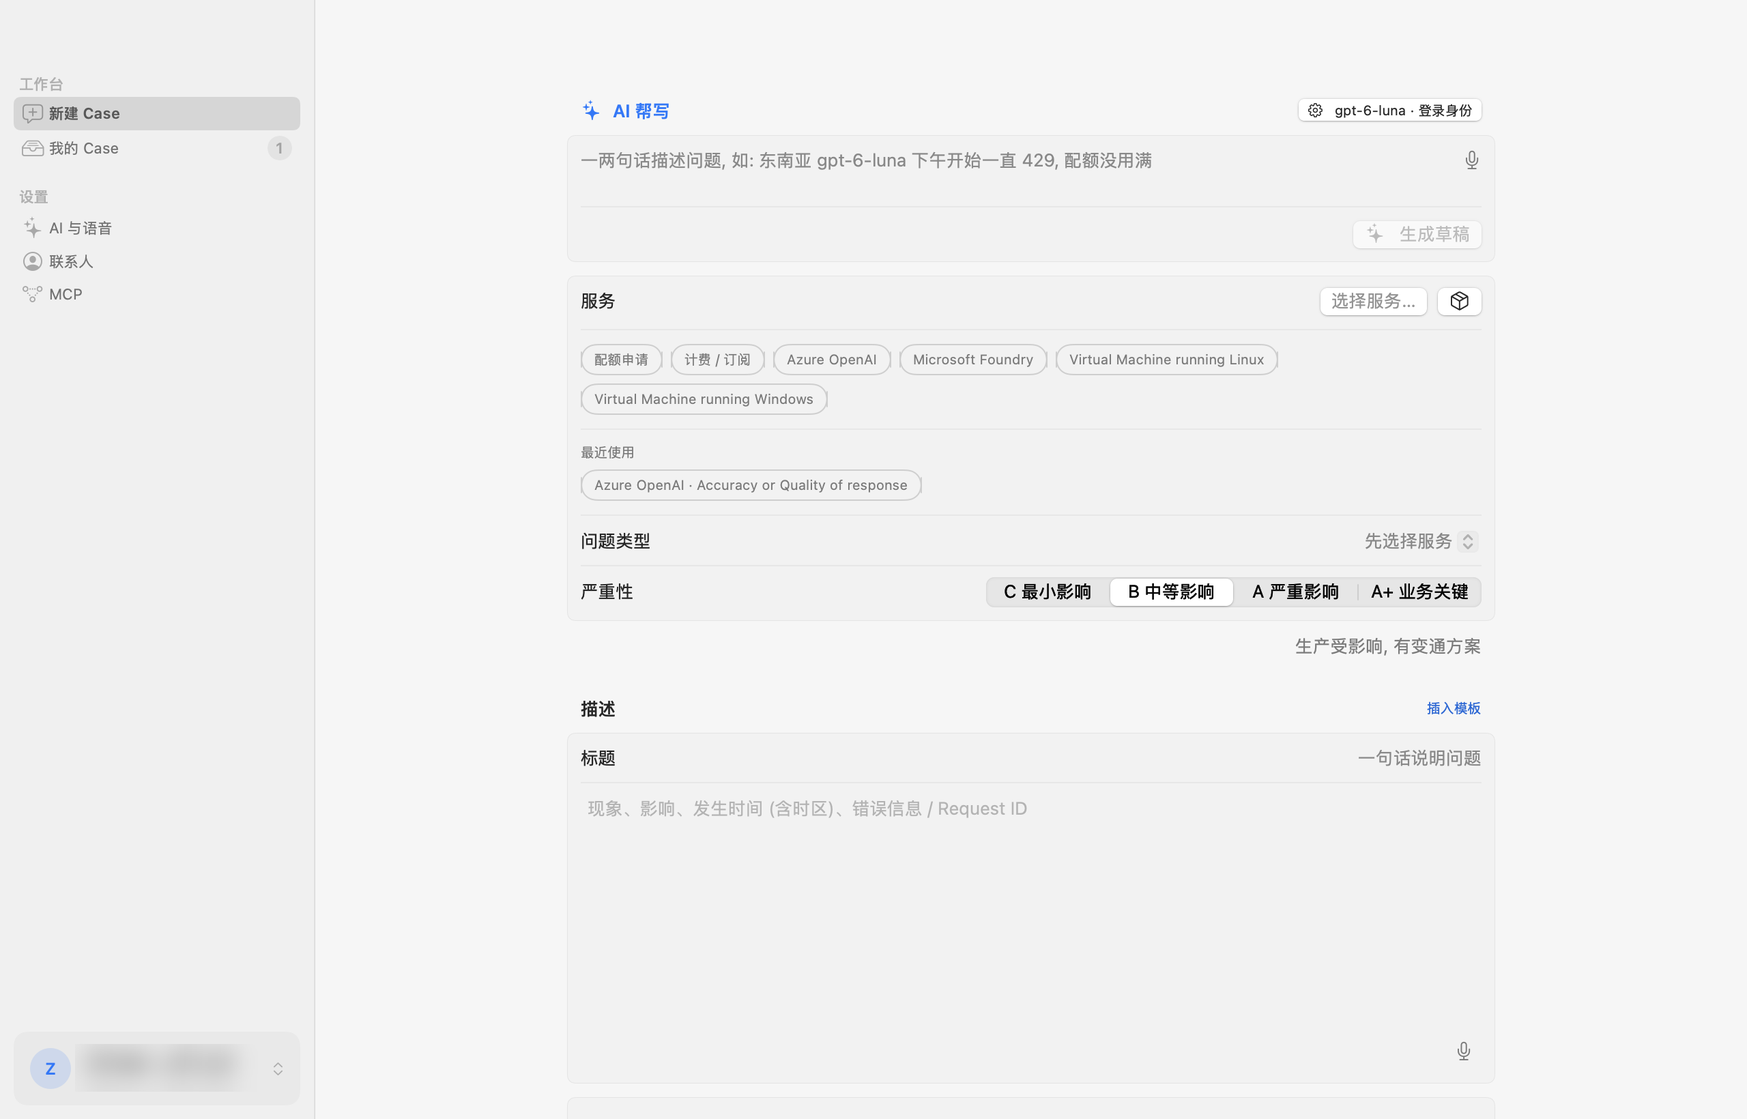
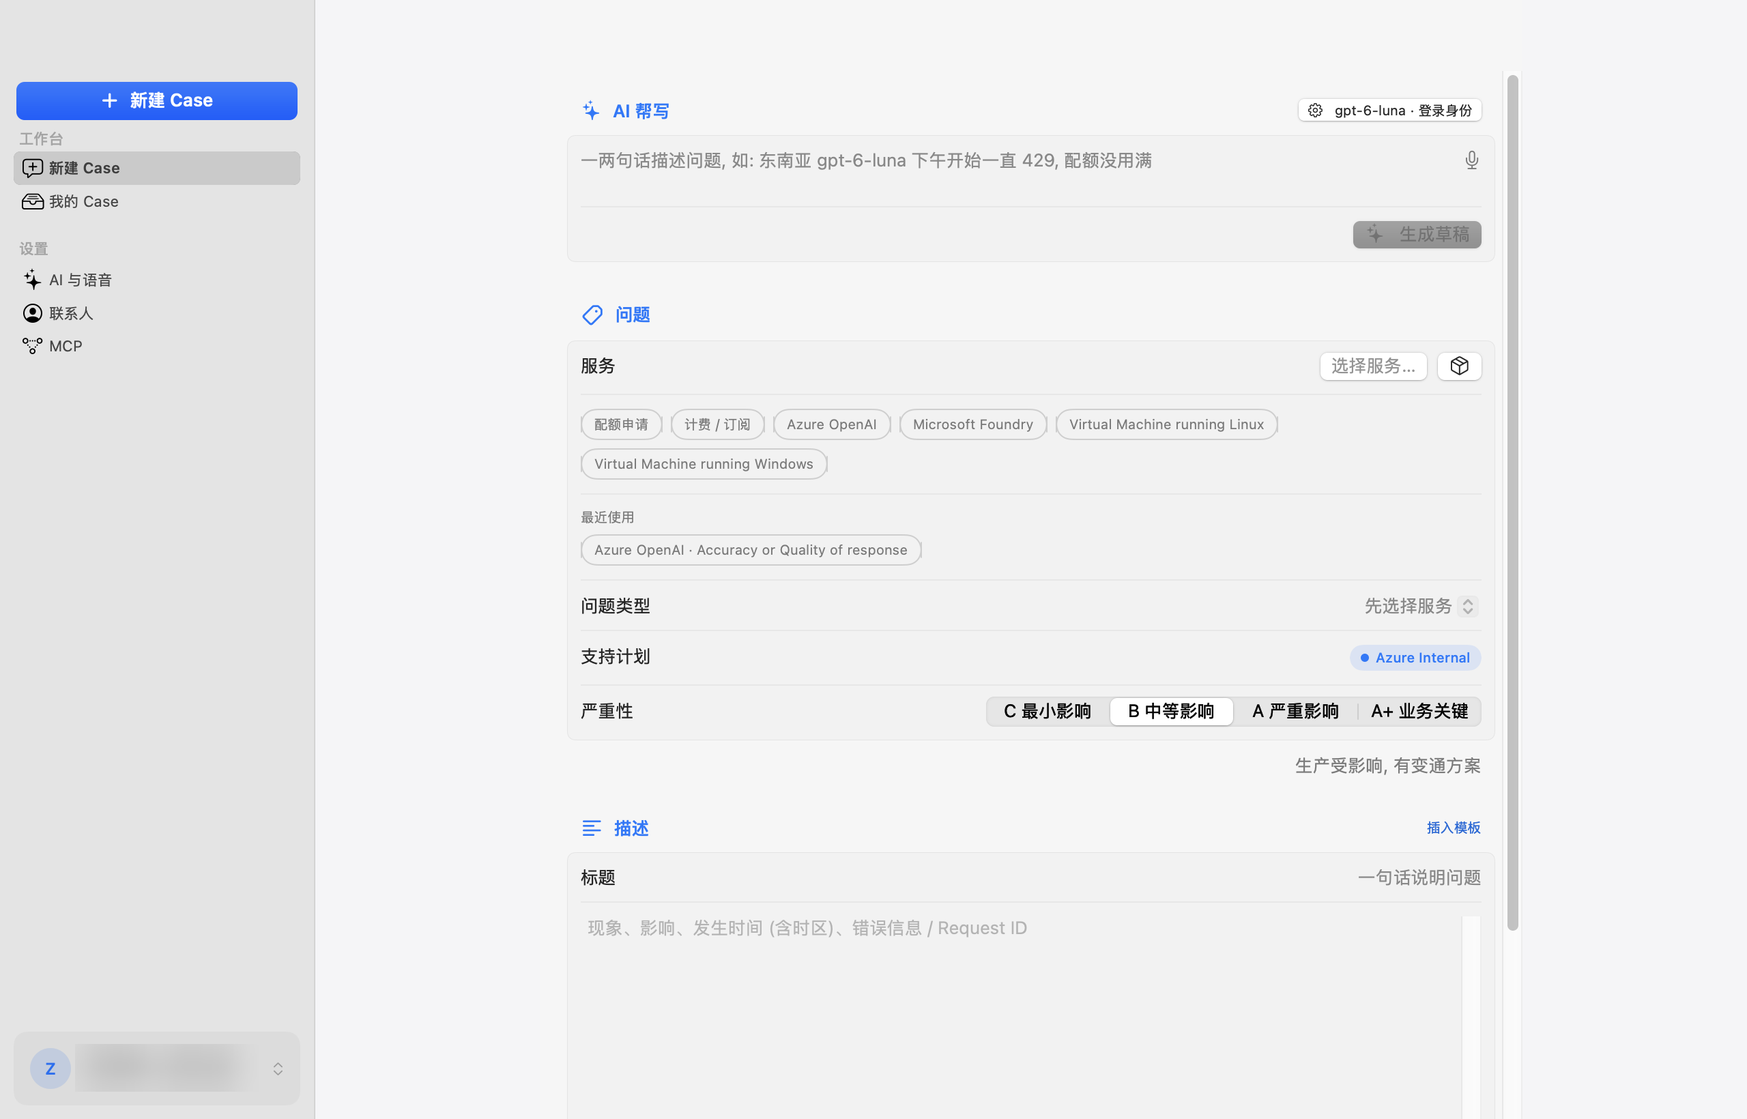
feat: v2.6.0 Web 测试连接与认证说明; 一句话 AI 部署指引; README 重写

diff --git a/static/js/ai.js b/static/js/ai.js
@@ -29,9 +29,17 @@ $("ai-model").onclick = async () => {
   };
   root.append(h("div", { class: "modal-wrap", onclick: (e) => { if (e.target.classList.contains("modal-wrap")) close(); } },
     h("div", { class: "card modal wide" }, h("h3", { class: "t-title-3" }, "AI 设置"),
-      h("div", { class: "body" }, "使用当前登录身份 (Entra ID) 调用, 需要 Cognitive Services OpenAI User 角色。仅保存在本机。"),
+      h("div", { class: "body" }, "认证方式: 登录身份 (Entra ID), 无需 Key。需要 Cognitive Services OpenAI User 角色 (Speech 为 Cognitive Services User)。服务器部署时 Key 只能由管理员通过 K8s Secret 配置。设置仅保存在本机。"),
       h("div", { class: "mt" }, form),
-      h("div", { class: "actions" }, h("button", { class: "btn", onclick: () => { localStorage.removeItem("cp.ai"); close(); showAiModel(); } }, "恢复默认"),
+      h("div", { class: "actions" }, h("span", { id: "ai-test-msg", class: "t-caption secondary", style: "margin-right:auto" }),
+        ...["chat", "stt"].map((k) => h("button", { class: "btn", onclick: async (ev) => {
+          const v = {}; form.querySelectorAll("[data-k]").forEach((i) => { if (i.value.trim()) v[i.dataset.k] = i.value.trim(); });
+          await busy(ev.currentTarget, async () => {
+            try { await api("ai/test", { kind: k, ai: v }); $("ai-test-msg").textContent = (k === "chat" ? "AI 帮写" : "语音") + ": 连接成功 ✓"; }
+            catch (e) { $("ai-test-msg").textContent = (k === "chat" ? "AI 帮写" : "语音") + ": " + errText(e); }
+          });
+        } }, k === "chat" ? "测试 AI" : "测试语音")),
+        h("button", { class: "btn", onclick: () => { localStorage.removeItem("cp.ai"); close(); showAiModel(); } }, "恢复默认"),
         h("button", { class: "btn primary", onclick: save }, "保存")))));
 };
 

diff --git a/casepilot/service.py b/casepilot/service.py
@@ -127,6 +127,18 @@ def stream_stop(r):
         raise core.ApiError(502, str(e).strip("'"))
 
 
+def ai_test(r):
+    """设置页「测试连接」: kind=chat 发极小对话请求; kind=stt 建立流式会话后立即关闭。"""
+    cfg = ai_config(r)
+    if r.get("kind") == "stt":
+        sid = stream_start(r)["id"]
+        realtime.SESSIONS.close(sid)
+        return {"ok": True}
+    body = {"model": cfg.chat_deployment, "messages": [{"role": "user", "content": "ping"}], "max_completion_tokens": 16}
+    _post(cfg, f"{cfg.chat_endpoint}/openai/v1/chat/completions", json.dumps(body).encode(), "application/json")
+    return {"ok": True}
+
+
 def support_plan(r):
     tenant, sub = r.get("tenantId"), r.get("subscriptionId")
     if not sub:

diff --git a/server.py b/server.py
@@ -165,6 +165,7 @@ ROUTES = {
     "ai/stream/start": service.stream_start,
     "ai/stream/push": service.stream_push,
     "ai/stream/stop": service.stream_stop,
+    "ai/test": service.ai_test,
     "ai/config": lambda r: service.ai_config(r).public(),
     "plan": service.support_plan,
     "reply": lambda r: add_communication(r["tenantId"], r.get("subscriptionId"), r.get("name"),

diff --git a/casepilot/realtime.py b/casepilot/realtime.py
@@ -300,6 +300,9 @@ class Sessions:
             raise RuntimeError(s.st.error)
         return s.push(base64.b64decode(b64) if b64 else b"")
 
+    def close(self, sid):
+        self._get(sid, pop=True).ws.close()
+
     def finish(self, sid):
         s = self._get(sid, pop=True)
         text = s.finish()

diff --git a/README.md b/README.md
@@ -2,103 +2,117 @@
 
 <img src="static/logo.png" width="96" alt="CasePilot logo">
 
-快速创建和管理 Azure Support Case: 原生 Mac App、服务器 / AKS 部署与 MCP。
+一句话描述问题, 快速创建和管理 Azure Support Case。提供 macOS / Windows 原生 App、跨平台 Web 版、MCP 与 AKS 部署。
 
 <p>
   <img src="docs/screenshots/new-case.png" width="49%" alt="新建 Case (AI 帮写)">
   <img src="docs/screenshots/my-cases.png" width="49%" alt="我的 Case 与详情">
 </p>
 
-## 项目结构
-| 路径 | 说明 |
-|---|---|
-| `macos/` | 原生 SwiftUI App (主产品) |
-| `windows/` | 原生 WPF App (.NET 9), 见 [docs/WINDOWS_APP.md](docs/WINDOWS_APP.md) |
-| `casepilot/` | Python 核心: 认证、Support API、AI、支持计划、MCP |
-| `server.py` + `static/` | Web 版 / 服务器模式 (本地或容器) |
-| `deploy/` | Dockerfile 配套的 Helm Chart 与 AKS 一键脚本 |
-| `tests/` | 服务端单元测试 |
-| `docs/` | UI 审计、设计规范、改动记录与截图 |
+## 快速开始
 
-## 下载安装 (推荐)
-1. 到 [最新 Release](https://github.com/ZenoRewn/Azure_CasePilot/releases/latest) 下载 `CasePilot-*-macOS-universal.zip` 并解压 (Windows: `win-x64` / `win-arm64`, 见下方 Windows 一节; Linux: `linux.tar.gz`, 解压后 `./start.sh`, 需 Python 3.9+, 浏览器打开 http://127.0.0.1:8765)
-2. **首次打开前必须执行一次** (App 未经 Apple 公证, 否则会提示"已损坏"或"无法验证开发者"):
-   ```bash
-   xattr -dr com.apple.quarantine ~/Downloads/CasePilot.app   # 按实际路径修改
-   ```
-3. 双击 `CasePilot.app`
-
-要求 macOS 14+, Universal (Apple Silicon + Intel), 约 1.2MB。关闭窗口或 ⌘Q 即完全退出, 无后台服务。
-
-## 登录
-| 方式 | 前提 | 说明 |
+| 平台 | 下载 ([最新 Release](https://github.com/ZenoRewn/Azure_CasePilot/releases/latest)) | 首次运行 |
 |---|---|---|
-| Azure CLI (默认, 自动尝试) | 已 `az login` | 复用本机 CLI 会话 |
-| 浏览器登录 (设备码) | 无 | 在浏览器输入验证码, 支持 MFA |
-| App Registration | Client ID + Secret | 需在订阅上授予 **Support Request Contributor** 与 **Reader**; Tenant/Client ID 存本机, Secret 存钥匙串, 下次自动填充 |
+| macOS 14+ (Universal) | `CasePilot-*-macOS-universal.zip` | 未经公证, 先执行 `xattr -dr com.apple.quarantine CasePilot.app`, 再双击 |
+| Windows x64 / ARM64 | `CasePilot-*-win-x64.zip` / `win-arm64.zip` | 解压双击 `CasePilot.exe` (自包含); SmartScreen 点「更多信息 → 仍要运行」 |
+| Linux / 其他 (Web 版) | `CasePilot-*-linux.tar.gz` | 解压后 `./start.sh` (Python 3.9+), 浏览器打开 http://127.0.0.1:8765 |
+| 团队共享 (AKS) | 见下方 [一句话部署](#一句话部署到-aks) | — |
 
-点击左下角**身份卡**可随时切换 租户 / 订阅 (含租户级) / 认证方式。
+关闭窗口即完全退出, 无后台服务。
+
+## 登录与权限
+
+| 方式 | 前提 |
+|---|---|
+| Azure CLI (默认, 自动尝试) | 本机已 `az login` |
+| 浏览器登录 (设备码) | 无, 支持 MFA |
+| App Registration | Client ID + Secret (Secret 存钥匙串 / 凭据管理器) |
+
+所需角色: 订阅上 **Support Request Contributor** + **Reader**; 使用 AI 时, AI 资源上 **Cognitive Services OpenAI User** (Speech 为 **Cognitive Services User**)。
+点击左下角**身份卡**随时切换 租户 / 订阅 (含租户级) / 认证方式。
 
 ## 功能
-- **AI 帮写** (v2.0): 一句话描述 (可语音) → AI 选择服务 / 问题类型 / 严重性并写好结构化描述; 信息不足时追问一轮。只从 Azure 真实目录中选择, 不编造。默认 westus3 `gpt-6-luna`, 可在侧边栏「设置 → AI 与语音」或 AI 帮写旁的模型按钮修改 Endpoint / 部署 / **API Key** (Key 存钥匙串; 留空则用登录身份, 需 Cognitive Services OpenAI User 角色)
-- **流式语音输入** (v2.5): 边说边出字, 新建描述 / 补充信息 / 回复均可用。三端 (Mac / Windows / Web·Linux) 一致:
-  - Azure OpenAI Realtime `gpt-live-transcribe` (默认, 需在资源上部署)
-  - Azure Speech 实时识别 + **Post-Stream Refinement (PSR)**: 说话时快速出中间结果, 每句结束替换为二次识别的更准确文本 (可填 **区域 + Speech Key**)
-  - 直接走 WebSocket 协议, 未引入 Speech SDK, 安装包不变大; 流式失败时自动退回整段转写 (`gpt-4o-mini-transcribe` / Speech 快速转写)
-- **支持计划**: 侧边栏显示 (如 Unified / ProDirect / Standard), 来源标注 (最近 Case 或订阅类型推断; Azure 无公开查询 API); 不支持 A/A+ 时提示
-- **新建 Case**: 选服务 → 问题类型 → 严重性 (C/B/A/A+) → 标题与描述 → 提交 (⌘↩)
-  - 快捷入口: 配额申请、计费/订阅、Azure OpenAI、Microsoft Foundry 及最近使用的服务
-  - 「最近使用」: 提交过的 服务 + 问题类型 一键复用
-  - 从订阅资源反查服务; 结构化描述模板; 请求体预览
-  - 「更多选项」: 关联资源、开始时间、24×7、诊断授权
-  - Compute vCPU 配额结构化表单
-- **联系人**: 在 设置 (⌘,) 中维护, 默认 简体中文 / 中国 / China Standard Time
-- **我的 Case**: 统计、搜索、状态与时间筛选; 详情 (属性、SLA、描述、沟通记录); 补充信息; 关闭 Case (回读确认)
-- **支持计划提示**: 根据该订阅最近 Case 推断
 
-## 从源码构建
-```bash
-cd macos
-swift test                    # 单元测试
-./build_app.sh v2.5.0         # 产物: dist/CasePilot-v2.5.0-macOS-universal.zip
-```
+### 新建 Case
+- 侧边栏顶部 **「新建 Case」** 主按钮 (⌘N / Ctrl+N); 提交 ⌘↩ / Ctrl+Enter, 提交前确认
+- **AI 帮写**: 一句话 (可语音) → 自动选服务、问题类型、严重性, 并写好结构化描述 (现象 / 影响 / 时间 / 错误 / 已尝试); 信息不足时追问一轮。只从 Azure 真实目录中选择, 不编造
+- 快捷入口: 配额申请、计费 / 订阅、Azure OpenAI、Microsoft Foundry; 「最近使用」一键复用服务 + 问题类型; 从订阅资源反查服务
+- **支持计划徽章**: 显示当前订阅的支持计划 (如 Unified / ProDirect / Standard); 所选 A / A+ 可能不被支持时变橙色提醒
+  > Azure 没有公开 API 查询支持计划, 按该订阅最近一年的 Case 或订阅类型推断; 租户级或无历史 Case 时显示「未知」
+- 更多选项: 关联资源、开始时间、24×7、诊断授权; Compute vCPU 配额结构化表单; 请求体预览
+
+### 流式语音输入
+边说边出字, 用于新建描述、AI 追问与 Case 回复, 三端一致:
+- **Azure OpenAI Realtime `gpt-live-transcribe`** (默认)
+- **Azure Speech 实时识别 + Post-Stream Refinement (PSR)**: 说话时快速出中间结果, 每句结束替换为二次识别的更准确文本
+- 直接走 WebSocket 协议, 不引入 Speech SDK; 流式失败时自动退回整段转写 (`gpt-4o-mini-transcribe` / Speech 快速转写)
+
+### 我的 Case
+统计、搜索、状态与时间筛选; 详情 (属性、SLA、描述、沟通记录); 补充信息 (可语音); 关闭 Case (回读确认)。
+
+### AI 与语音设置
+侧边栏「设置 → AI 与语音」, 或 AI 帮写旁的模型按钮:
+
+| 项 | 默认 |
+|---|---|
+| 对话 Endpoint / 部署 | westus3 · `gpt-6-luna` |
+| 转写服务 | Azure OpenAI (`gpt-live-transcribe` 流式, `gpt-4o-mini-transcribe` 兜底) 或 Azure Speech |
+| **认证方式** | **登录身份 (Entra ID)** 或 **API Key**, AI 帮写与语音分别选择 |
+
+- 登录身份: 用当前账号调用, 无需 Key, 界面显示所需角色
+- API Key: 存本机钥匙串 / 凭据管理器; 切回登录身份不删除已存 Key。Speech Key 需同时填写区域
+- 每组都有 **「测试连接」**, 失败时提示缺少的角色或检查 Key
+- 原生 App 中旧版本已存 Key 的用户, 升级后自动保持 API Key 方式
+
+### 联系人
+设置 (⌘,) 中维护, 默认 简体中文 / 中国 / China Standard Time。
 
 ## MCP (Claude Desktop / VS Code / Copilot 等)
-工具: `list_services` `list_problem_types` `draft_case` `create_case` `list_cases` `get_case` `add_case_message` `close_case` `get_support_plan`。写操作必须 `confirm=true`。
-- **本机 (stdio, 复用 az login)**:
+工具: `list_services` `list_problem_types` `draft_case` `create_case` `list_cases` `get_case` `add_case_message` `close_case` `get_support_plan`, 写操作需 `confirm=true`。
+- **本机 (stdio, 复用 az login)**, App 内「设置 → MCP」可一键复制:
   ```json
   {"mcpServers": {"casepilot": {"command": "python3", "args": ["-m", "casepilot.mcp"], "cwd": "<仓库路径>",
     "env": {"CASEPILOT_SUBSCRIPTION_ID": "<订阅>"}}}}
   ```
-  App 内 设置 → MCP 可一键复制。
-- **服务器 (HTTP)**: `POST https://<host>/mcp`, `Authorization: Bearer <CASEPILOT_API_KEY>`
+- **服务器 (HTTP)**: `POST https://<host>/mcp`, `Authorization: Bearer <API Key>`
 
-## 服务器 / AKS 部署
-零依赖 Python 容器 (`Dockerfile`) + Helm (`deploy/helm/casepilot`), 使用 **AKS Workload Identity**, 无需任何密钥访问 Azure:
+## 一句话部署到 AKS
+把这句话 (替换尖括号) 发给 Claude Code / Copilot / Codex 等能执行命令的 AI 助手:
+
+> 按 https://github.com/ZenoRewn/Azure_CasePilot/blob/main/docs/AI_DEPLOY.md 的步骤, 把 CasePilot 部署到我的 AKS: 资源组 `<rg>`, 集群 `<aks>`, ACR `<acr>`, 订阅 `<订阅 ID>`, AI 资源 `<AI 资源名>`; 每步执行前先说明, 涉及创建资源或授权时先让我确认。
+
+也可手动执行:
 ```bash
-RG=<rg> AKS=<aks> ACR=<acr> SUB=<订阅> AOAI=<AI 资源名> ./deploy/aks.sh
+RG=<rg> AKS=<aks> ACR=<acr> SUB=<订阅 ID> AOAI=<AI 资源名> AOAI_RG=<ai-rg> ./deploy/aks.sh
 ```
-脚本会: ACR 构建镜像 → 创建托管标识与联邦凭据 → 授予 Support Request Contributor / Reader / Cognitive Services OpenAI User → 生成 API Key → helm 安装。
-服务器模式下 AI/Speech Key 只从环境变量或 K8s Secret 读取 (`CASEPILOT_AOAI_KEY` / `CASEPILOT_STT_KEY` / `CASEPILOT_SPEECH_REGION`, Helm `casepilot.ai.keysSecret`), 不接受浏览器传入; 所有 API 与 /mcp 需 Bearer API Key; 也可置于 Entra 认证网关后 (`trustProxyAuth`)。非 K8s 服务器: `CASEPILOT_MODE=server CASEPILOT_API_KEY=... AZURE_TENANT_ID/CLIENT_ID/CLIENT_SECRET=... python3 server.py`。
+零依赖 Python 容器 + Helm, 使用 **Workload Identity** (集群中不保存 Azure 密钥): ACR 构建 → 托管标识与联邦凭据 → 最小权限角色 → 生成 API Key 存入 Secret → helm 安装。
+- 服务器模式下 AI / Speech Key 只从环境变量或 K8s Secret 读取 (Helm `casepilot.ai.keysSecret`), 不接受浏览器传入
+- 所有 API 与 `/mcp` 需 Bearer API Key; 也可置于 Entra 认证网关后 (`casepilot.trustProxyAuth=true`)
+- 非 K8s 服务器: `CASEPILOT_MODE=server CASEPILOT_API_KEY=... AZURE_TENANT_ID=... AZURE_CLIENT_ID=... AZURE_CLIENT_SECRET=... python3 server.py`
 
-## Web 版 (备选, 跨平台)
-仓库根目录的 `server.py` + `static/` 为早期 Web 版 (仅需 Python 3.9+, 零依赖):
-macOS 双击 `start.command`, Windows 双击 `start.bat`, 浏览器自动打开 http://127.0.0.1:8765 。
-服务端测试: `python3 -m unittest discover -s tests`。
+## 从源码构建与测试
 
-## Windows
-- **原生 App** (`windows/`, WPF .NET 9): 功能对齐 Mac 版。
-  - **下载即用**: 解压 `CasePilot-*-win-x64.zip` (ARM 设备用 `win-arm64`), 双击 `CasePilot.exe`。自包含单文件, 已内置 .NET 运行时, 无需安装任何依赖。未签名, 首次运行若出现 SmartScreen 提示, 点「更多信息 → 仍要运行」。
-  - 构建与发布: `powershell -ExecutionPolicy Bypass -File windows\build.ps1 -Version v1.0.0`, 产物 `windows\dist\CasePilot-v1.0.0-win-{x64,arm64}.zip`。
-  - 详见 [docs/WINDOWS_APP.md](docs/WINDOWS_APP.md)。
-- **Web 版**: 双击 `start.bat`。脚本依次查找 `py` / `python`, 都找不到时使用 Azure CLI 自带的 Python。启动后浏览器打开 http://127.0.0.1:8765 。
+| 组件 | 命令 |
+|---|---|
+| macOS (`macos/`, SwiftUI) | `swift test`; 打包 `./build_app.sh v2.6.0` |
+| Windows (`windows/`, WPF .NET 9) | `windows\build.ps1 -Version v2.6.0` (含测试与 x64/arm64 打包), 详见 [docs/WINDOWS_APP.md](docs/WINDOWS_APP.md) |
+| Python 核心 / Web (`casepilot/`, `server.py`, `static/`) | `python3 -m unittest discover -s tests`; 本地运行 `./start.sh` / `start.command` / `start.bat` |
 
-## 已知限制 / 待办
-- **云环境**: 原生 App 仅支持 Azure Global。
-- **Windows**: 原生 App 未签名 (SmartScreen 首次提示)。
-- **签名公证**: 目前为 ad-hoc 签名, 首次需执行 `xattr`。免除此步需 Apple Developer Program 的 "Developer ID Application" 证书 + `notarytool` 公证。
-- **浏览器登录**: 需人工输入验证码, 尚未完整人工验证。
-- **AI 配额**: 默认部署 TPM 较低 (10K), 并发多时会 429 (已自动退避重试); 生产建议提高配额或换部署。
+| 路径 | 说明 |
+|---|---|
+| `macos/` | 原生 macOS App |
+| `windows/` | 原生 Windows App |
+| `casepilot/` | Python 核心: 认证、Support API、AI、流式语音、支持计划、MCP |
+| `server.py` + `static/` | Web 版 / 服务器模式 |
+| `deploy/` | Helm Chart 与 AKS 一键脚本 (配合根目录 `Dockerfile`) |
+| `docs/` | 部署指引、Windows 说明、UI 规范与截图 |
+
+## 已知限制
+- 仅支持 Azure Global 云
+- 未签名: macOS 首次需 `xattr`; Windows 首次 SmartScreen 提示
+- 浏览器 (设备码) 登录尚未完整人工验证
+- AI / Speech 的 API Key 方式只有单元测试 (测试资源关闭了 Key 认证), 登录身份方式已实测
+- 默认 AI 部署 TPM 较低, 并发多时会 429 (已自动退避重试), 生产建议提高配额
 
 ## 安全
-凭据仅在本机 (内存 / 钥匙串), App 直接调用 Azure ARM `Microsoft.Support` API (2024-04-01), 不经过任何第三方服务。
+凭据只在本机 (内存 / 钥匙串 / Windows 凭据管理器); 直接调用 Azure ARM `Microsoft.Support` API (2024-04-01) 与 Azure AI, 不经过任何第三方服务。

diff --git a/docs/AI_DEPLOY.md b/docs/AI_DEPLOY.md
@@ -1,0 +1,62 @@
+# 一句话交给 AI 部署 CasePilot
+
+把下面这句话 (替换尖括号) 发给 Claude Code / GitHub Copilot / Codex 等能执行命令的 AI 助手即可:
+
+> 按 https://github.com/ZenoRewn/Azure_CasePilot/blob/main/docs/AI_DEPLOY.md 的步骤, 把 CasePilot 部署到我的 AKS: 资源组 `<rg>`, 集群 `<aks>`, ACR `<acr>`, 订阅 `<订阅 ID>`, AI 资源 `<AI 资源名>`; 每步执行前先说明, 涉及创建资源或授权时先让我确认。
+
+只想在本机用? 不需要部署, 到 [Releases](https://github.com/ZenoRewn/Azure_CasePilot/releases/latest) 下载对应平台的包即可。
+
+---
+
+## 给 AI 助手的执行步骤
+
+目标: 在用户的 AKS 上以 Workload Identity 运行 CasePilot Web/MCP 服务, 不在集群中保存任何 Azure 密钥。
+
+### 0. 前置检查 (只读)
+```bash
+az account show -o table                      # 已登录且为目标租户
+az aks show -g <rg> -n <aks> --query "{oidc:oidcIssuerProfile.enabled, wi:securityProfile.workloadIdentity.enabled}"
+az acr show -n <acr> -o none && helm version && kubectl version --client
+```
+- 若 OIDC / Workload Identity 未开启, 先告诉用户并征得同意后执行:
+  `az aks update -g <rg> -n <aks> --enable-oidc-issuer --enable-workload-identity`
+- `kubectl` 需指向该集群: `az aks get-credentials -g <rg> -n <aks>`
+
+### 1. (可选) 部署语音模型
+在 AI 资源上确认存在部署 `gpt-6-luna` (或用户已有的对话模型)、`gpt-live-transcribe` (流式转写)、`gpt-4o-mini-transcribe` (整段兜底):
+```bash
+az cognitiveservices account deployment list -g <ai-rg> -n <AI 资源名> --query "[].name" -o tsv
+```
+缺失时征得同意后创建, 例如:
+```bash
+az cognitiveservices account deployment create -g <ai-rg> -n <AI 资源名> --deployment-name gpt-live-transcribe \
+  --model-name gpt-live-transcribe --model-version 2026-07-28 --model-format OpenAI --sku-name GlobalStandard --sku-capacity 10
+```
+对话模型不同于默认值时, 部署后设置 Helm 值 `casepilot.ai.deployment` / `endpoint` / `sttEndpoint` (`helm upgrade ... --reuse-values --set ...`)。
+
+### 2. 一键部署 (会创建托管标识与角色分配, 先征得同意)
+在仓库根目录执行:
+```bash
+RG=<rg> AKS=<aks> ACR=<acr> SUB=<订阅 ID> AOAI=<AI 资源名> AOAI_RG=<ai-rg> ./deploy/aks.sh
+```
+脚本: ACR 构建镜像 → 创建托管标识 + 联邦凭据 → 授予 Support Request Contributor / Reader (订阅) 与 Cognitive Services OpenAI User (AI 资源) → 生成 API Key 存入 K8s Secret `casepilot-api-key` → helm 安装。
+
+### 3. 验证
+```bash
+kubectl -n casepilot rollout status deploy/casepilot
+kubectl -n casepilot port-forward svc/casepilot 8080:80 &
+curl -s localhost:8080/healthz                 # {"ok": true, "mode": "server", ...}
+```
+API Key 在 Secret 中: `kubectl -n casepilot get secret casepilot-api-key -o jsonpath='{.data.api-key}' | base64 -d`。
+告诉用户: Web 访问地址、API Key 获取方式、MCP 地址 `POST https://<host>/mcp` (Bearer API Key)。
+如需公网访问, 建议放在 Entra 认证网关后 (Helm `casepilot.trustProxyAuth=true`), 或开启 `ingress.enabled`, 不要直接暴露。
+
+### 4. 回滚
+```bash
+helm -n casepilot uninstall casepilot && kubectl delete ns casepilot
+az identity delete -g <rg> -n id-casepilot     # 先征得同意
+```
+
+### 注意
+- 不要把任何 Key 写入仓库或命令历史; AI/Speech Key (如必须用) 放进 K8s Secret, 见 Helm `casepilot.ai.keysSecret` (键 `aoai-key` / `stt-key`)。
+- 不要为测试创建真实 Support Case; 如必须验证创建流程, 标题注明测试并在验证后立即关闭。
